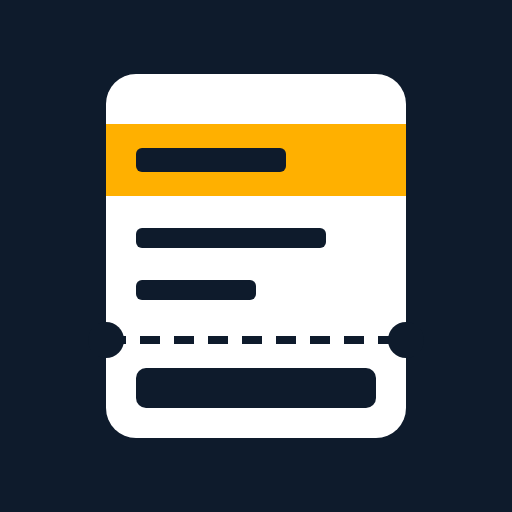
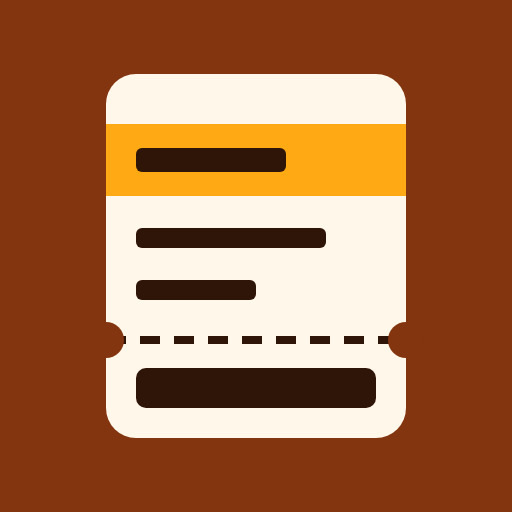
Warm the palette to sienna, cream and umber
Replaces the navy and white with a burnt sienna surround, a cream panel
and dark umber ink, and deepens the amber slightly so the current row
still stands out on cream. Ink no longer doubles as the surround, so the
surround gets its own token, and the install-help and chart SVGs now read
colours from the tokens instead of hardcoded hex values.

Updates the theme colour, the manifest and the app icons, and records the
new palette in DESIGN.md, its sidecar and the surface brief.

diff --git a/src/styles/app.css b/src/styles/app.css
@@ -1,10 +1,11 @@
 :root {
-  --ink: #0e1b2c;
-  --ink-soft: #33445a;
-  --on-ink-soft: #cdd6e2;
-  --paper: #fff;
-  --amber: #ffb000;
-  --panel-tint: #e9edf2;
+  --surround: #833510;
+  --ink: #2e1508;
+  --ink-soft: #5f4332;
+  --on-surround-soft: #f8dfc6;
+  --paper: #fff7ea;
+  --amber: #ffa914;
+  --panel-tint: #f4e4cc;
   --tap: 60px;
   --gutter: 20px;
   --app-width: min(100vw, 520px);
@@ -19,7 +20,7 @@
   line-height: 1.4;
   font-variant-numeric: tabular-nums;
   color: var(--paper);
-  background: var(--ink);
+  background: var(--surround);
   -webkit-text-size-adjust: 100%;
 }
 
@@ -27,7 +28,7 @@
 html, body, #root { min-height: 100%; }
 #root { width: var(--app-width); margin-inline: auto; }
 #root:has(.view) { width: 100%; }
-body { background: var(--ink); overscroll-behavior: none; }
+body { background: var(--surround); overscroll-behavior: none; }
 ::selection { background: var(--amber); color: var(--ink); }
 button { font: inherit; color: inherit; background: none; border: 0; cursor: pointer; touch-action: manipulation; -webkit-tap-highlight-color: transparent; }
 :focus-visible { outline: 4px solid var(--amber); outline-offset: 3px; }
@@ -81,7 +82,7 @@ button.spot:active, button.tile:active { background: var(--ink); }
 .leg-name { font-size: 31px; font-weight: 700; line-height: 1.2; }
 .leg-time { font-size: 23px; }
 .tear { position: relative; flex: none; height: 30px; padding-inline: 24px; background: radial-gradient(circle, var(--ink) 4px, transparent 4.5px) left center / 18px 30px round no-repeat; background-origin: content-box; background-clip: content-box; }
-.tear::before, .tear::after { content: ''; position: absolute; top: calc(50% - 15px); width: 30px; height: 30px; border-radius: 50%; background: var(--ink); }
+.tear::before, .tear::after { content: ''; position: absolute; top: calc(50% - 15px); width: 30px; height: 30px; border-radius: 50%; background: var(--surround); }
 .tear::before { left: -15px; }
 .tear::after { right: -15px; }
 .stub { display: flex; flex-direction: column; gap: 12px; padding: 6px 22px 20px; }
@@ -97,13 +98,13 @@ button.spot:active, button.tile:active { background: var(--ink); }
 .week-row { display: flex; justify-content: space-between; align-items: center; gap: 12px; }
 .week-row .btn-small { flex: none; white-space: nowrap; }
 .week > p { margin-top: 2px; font-size: 21px; line-height: 1.3; }
-.update-screen { font-weight: 500; position: fixed; inset: 0; z-index: 10; left: calc(50% - var(--app-width) / 2); right: auto; width: var(--app-width); background: var(--ink); justify-content: center; overflow-y: auto; }
+.update-screen { font-weight: 500; position: fixed; inset: 0; z-index: 10; left: calc(50% - var(--app-width) / 2); right: auto; width: var(--app-width); background: var(--surround); justify-content: center; overflow-y: auto; }
 
 /* Game screens */
 .game-screen { padding-bottom: calc(var(--safe-bottom) + 12px); }
 .game-bar { display: flex; justify-content: space-between; align-items: center; gap: 12px; min-height: 64px; padding: 0 4px; }
 .game-bar .btn-small { flex: 0 1 auto; max-width: 54%; }
-.game-label { flex: 1 1 auto; min-width: 0; display: flex; flex-direction: column; font-size: 20px; line-height: 1.25; color: var(--on-ink-soft); }
+.game-label { flex: 1 1 auto; min-width: 0; display: flex; flex-direction: column; font-size: 20px; line-height: 1.25; color: var(--on-surround-soft); }
 .game-label b { font-size: 26px; font-weight: 800; line-height: 1.2; color: var(--paper); }
 .game-panel { flex: 1; display: flex; flex-direction: column; margin-top: 12px; }
 .message-screen { flex: 1; display: flex; flex-direction: column; justify-content: space-between; gap: 28px; padding: 26px 22px 22px; }
@@ -158,7 +159,7 @@ button.spot:active, button.tile:active { background: var(--ink); }
 .tile-lit { background: var(--ink); }
 
 /* Leave screen */
-.leave { position: fixed; inset: 0; z-index: 10; left: calc(50% - var(--app-width) / 2); right: auto; width: var(--app-width); background: var(--ink); justify-content: center; overflow-y: auto; }
+.leave { position: fixed; inset: 0; z-index: 10; left: calc(50% - var(--app-width) / 2); right: auto; width: var(--app-width); background: var(--surround); justify-content: center; overflow-y: auto; }
 .leave-panel { display: flex; flex-direction: column; padding: 28px 22px 22px; }
 .leave-actions { margin-top: 30px; }
 
@@ -190,7 +191,7 @@ button.spot:active, button.tile:active { background: var(--ink); }
 .view { max-width: 720px; margin-inline: auto; }
 .view-week { font-size: 23px; line-height: 1.4; }
 .view-week p + p { margin-top: 4px; }
-.view-meta { font-size: 20px; color: var(--on-ink-soft); }
+.view-meta { font-size: 20px; color: var(--on-surround-soft); }
 .view-title { font-size: 30px; font-weight: 800; }
 .view-head { display: flex; flex-wrap: wrap; justify-content: space-between; align-items: baseline; gap: 2px 14px; padding: 0 4px 14px; }
 .view-panel { display: flex; flex-direction: column; gap: 26px; padding: 22px; }
@@ -207,7 +208,7 @@ button.spot:active, button.tile:active { background: var(--ink); }
 .view-notice { padding-top: 18px; border-top: var(--rule); font-size: 21px; line-height: 1.45; }
 .view-message { padding: 26px 22px; font-size: 24px; }
 
-.turn-upright { display: none; position: fixed; inset: 0; z-index: 20; place-items: center; padding: 24px; background: var(--ink); color: var(--paper); font-size: 28px; font-weight: 700; text-align: center; }
+.turn-upright { display: none; position: fixed; inset: 0; z-index: 20; place-items: center; padding: 24px; background: var(--surround); color: var(--paper); font-size: 28px; font-weight: 700; text-align: center; }
 @media (orientation: landscape) and (max-height: 520px) { .turn-upright { display: grid; } }
 
 @media (prefers-reduced-motion: reduce) {

diff --git a/src/screens/PrivateView.tsx b/src/screens/PrivateView.tsx
@@ -50,15 +50,15 @@ function Trend({ points, unit, format }: { points: { date: string; score: number
         }}
         onPointerLeave={() => setActive(null)}
       >
-        <line x1={PAD.left} x2={W - PAD.right} y1={H - PAD.bottom} y2={H - PAD.bottom} stroke="#E9EDF2" strokeWidth="2" />
-        <line x1={PAD.left} x2={W - PAD.right} y1={PAD.top} y2={PAD.top} stroke="#E9EDF2" strokeWidth="2" />
+        <line x1={PAD.left} x2={W - PAD.right} y1={H - PAD.bottom} y2={H - PAD.bottom} stroke="var(--panel-tint)" strokeWidth="2" />
+        <line x1={PAD.left} x2={W - PAD.right} y1={PAD.top} y2={PAD.top} stroke="var(--panel-tint)" strokeWidth="2" />
         <text x={PAD.left - 8} y={PAD.top + 7} textAnchor="end">{Math.round(max)}</text>
         <text x={PAD.left - 8} y={H - PAD.bottom + 7} textAnchor="end">{Math.round(min)}</text>
         <text x={PAD.left} y={H - 8}>{format(points[0].date)}</text>
         {points.length > 1 && <text x={W - PAD.right} y={H - 8} textAnchor="end">{format(points[points.length - 1].date)}</text>}
-        {points.length > 1 && <path d={line} fill="none" stroke="#0E1B2C" strokeWidth="2" strokeLinejoin="round" strokeLinecap="round" />}
-        <line x1={x(shown)} x2={x(shown)} y1={PAD.top} y2={H - PAD.bottom} stroke="#33445A" strokeWidth="1" strokeDasharray="3 4" />
-        <circle cx={x(shown)} cy={y(points[shown].score)} r="6" fill="#0E1B2C" stroke="#FFFFFF" strokeWidth="2" />
+        {points.length > 1 && <path d={line} fill="none" stroke="var(--ink)" strokeWidth="2" strokeLinejoin="round" strokeLinecap="round" />}
+        <line x1={x(shown)} x2={x(shown)} y1={PAD.top} y2={H - PAD.bottom} stroke="var(--ink-soft)" strokeWidth="1" strokeDasharray="3 4" />
+        <circle cx={x(shown)} cy={y(points[shown].score)} r="6" fill="var(--ink)" stroke="var(--paper)" strokeWidth="2" />
       </svg>
     </>
   );

diff --git a/src/screens/InstallHelp.tsx b/src/screens/InstallHelp.tsx
@@ -20,9 +20,9 @@ function AddSymbol() {
 function AppSymbol() {
   return (
     <svg viewBox="0 0 48 48" aria-hidden="true">
-      <rect x="5" y="5" width="38" height="38" rx="9" fill="#0E1B2C" />
-      <rect x="13" y="11" width="22" height="26" rx="3" fill="#fff" />
-      <rect x="13" y="16" width="22" height="6" fill="#FFB000" />
+      <rect x="5" y="5" width="38" height="38" rx="9" fill="var(--surround)" />
+      <rect x="13" y="11" width="22" height="26" rx="3" fill="var(--paper)" />
+      <rect x="13" y="16" width="22" height="6" fill="var(--amber)" />
     </svg>
   );
 }

diff --git a/vite.config.ts b/vite.config.ts
@@ -29,8 +29,8 @@ export default defineConfig({
         orientation: 'portrait',
         start_url: '/',
         scope: '/',
-        theme_color: '#0E1B2C',
-        background_color: '#0E1B2C',
+        theme_color: '#833510',
+        background_color: '#833510',
         icons: [
           { src: 'icon-192.png', sizes: '192x192', type: 'image/png' },
           { src: 'icon-512.png', sizes: '512x512', type: 'image/png' },

diff --git a/index.html b/index.html
@@ -3,7 +3,7 @@
   <head>
     <meta charset="UTF-8" />
     <meta name="viewport" content="width=device-width, initial-scale=1, viewport-fit=cover" />
-    <meta name="theme-color" content="#0E1B2C" />
+    <meta name="theme-color" content="#833510" />
     <meta name="robots" content="noindex" />
     <meta name="mobile-web-app-capable" content="yes" />
     <meta name="apple-mobile-web-app-capable" content="yes" />

diff --git a/DESIGN.md b/DESIGN.md
@@ -2,12 +2,13 @@
 name: Mr. K's Training
 description: A one-person daily brain-game habit, carried on a single ticket that is both home and map.
 colors:
-  amber: "#ffb000"
-  ink: "#0e1b2c"
-  ink-soft: "#33445a"
-  on-ink-soft: "#cdd6e2"
-  paper: "#fff"
-  panel-tint: "#e9edf2"
+  amber: "#ffa914"
+  surround: "#833510"
+  ink: "#2e1508"
+  ink-soft: "#5f4332"
+  on-surround-soft: "#f8dfc6"
+  paper: "#fff7ea"
+  panel-tint: "#f4e4cc"
 typography:
   numeral:
     fontFamily: "Be Vietnam Pro, system-ui, sans-serif"
@@ -184,14 +185,14 @@ components:
 
 **Creative North Star: "The Day's Pass"**
 
-One white ticket on a dark navy surround is the whole world. The pass is both home and map: she leaves it to play a game and returns to the same ticket with the next row lit. Everything else, from a game to a settings page to a warning, is the same white panel on the same navy, so nothing feels like going somewhere new.
+One cream ticket on a burnt sienna surround is the whole world. The pass is both home and map: she leaves it to play a game and returns to the same ticket with the next row lit. Everything else, from a game to a settings page to a warning, is the same cream panel on the same sienna, so nothing feels like going somewhere new.
 
 The system borrows the structure of a boarding pass and a departure board: numbered rows, heavy dividing rules, tabular numerals, a perforated tear line with punched notches. It borrows no flight imagery or vocabulary. Density is deliberately low and the type is very large, because the only player needs larger text, has less steady hands and can't be expected to know app conventions. Hierarchy comes from size, weight and one lit row, never from decoration.
 
 German and Vietnamese copy is an unreviewed draft. No wording is recorded here as a standard, and layouts must hold up when strings change length.
 
 **Key Characteristics:**
-- One white panel on a navy surround, on every screen.
+- One cream panel on a sienna surround, on every screen.
 - One amber row that says where she is today.
 - Very large type, with 20 px as the floor.
 - Controls that are unmistakably shapes, with generous targets and a visible press.
@@ -199,24 +200,25 @@ German and Vietnamese copy is an unreviewed draft. No wording is recorded here a
 
 ## Colors
 
-A near-monochrome pairing of navy and white, with one saturated amber that carries position.
+A warm family of one hue: burnt sienna around cream paper, dark umber ink, and one saturated amber that carries position.
 
 ### Primary
-- **Departure Amber** (#ffb000): The band behind the current row on the pass and the arrow in the go button. It also marks text selection, and focus rings on the navy surround. The app icon and the install-help illustration show the same band because they are pictures of the pass. Ink reads on it at 9.46:1.
+- **Departure Amber** (#ffa914): The band behind the current row on the pass and the arrow in the go button. It also marks text selection, and focus rings on the surround (4.41:1). The app icon and the install-help illustration show the same band because they are pictures of the pass. Ink reads on it at 8.91:1. It sits a little deeper than a pure amber so the band stands out from cream as strongly as it would from white.
 
 ### Neutral
-- **Night Ink** (#0e1b2c): The surround, all text on white, rules, filled buttons, selected options, lit tiles and game shapes. Used on white it reaches 17.33:1.
-- **Slate Ink** (#33445a): Quiet notes on white and the disabled button label (9.93:1 on white).
-- **Pale Slate** (#cdd6e2): Secondary text on the navy surround only (11.81:1 on ink).
-- **Ticket White** (#fff): The panel, button labels on ink, and all primary text on the surround.
-- **Tint** (#e9edf2): Resting fill of location spots, disabled button fill, and the light table rules on fact lists. At 1.18:1 against white it never carries meaning alone.
+- **Burnt Sienna** (#833510): The surround on every screen, the notches punched into the ticket, and the browser and manifest theme colour. Cream text reads on it at 7.96:1. It's held to the brown-orange side of red, so a whole screen of it never reads as an alarm.
+- **Umber Ink** (#2e1508): All text on the panel, rules, filled buttons, selected options, lit tiles and game shapes. On cream it reaches 16.09:1. It is not the surround: an ink control on sienna has only 2.02:1 at its edge, so ink-filled controls stay inside the panel.
+- **Walnut** (#5f4332): Quiet notes on cream and the disabled button label (8.45:1 on cream, 7.20:1 on Tint).
+- **Pale Apricot** (#f8dfc6): Secondary text on the surround only (6.59:1 on sienna).
+- **Ticket Cream** (#fff7ea): The panel, button labels on ink, and all primary text on the surround.
+- **Tint** (#f4e4cc): Resting fill of location spots, disabled button fill, and the light table rules on fact lists. At 1.17:1 against cream it never carries meaning alone.
 
 ### Named Rules
 **The One Lit Row Rule.** Amber as a state means "you are here" and appears on one row of the pass. The go-button arrow is its only companion. Selected options, correct answers, lit tiles, game feedback and charts never use it.
 
-**The No Amber On White Rule.** Amber never colours text, icons or rings directly on white (1.83:1). That is why focus rings switch to ink inside a panel.
+**The No Amber On Cream Rule.** Amber never colours text, icons or rings directly on cream (1.81:1). That is why focus rings switch to ink inside a panel.
 
-**The No Red Rule.** The system has no red and no alarm colour. A wrong answer is an ink cross, and nothing on her screens signals failure with colour.
+**The No Red Rule.** The system has no red and no alarm colour, and the warm palette stays brown-orange rather than drifting towards it. A wrong answer is an ink cross, and nothing on her screens signals failure with colour.
 
 ## Typography
 
@@ -245,7 +247,7 @@ A near-monochrome pairing of navy and white, with one saturated amber that carri
 
 ## Layout
 
-The app is a single column of `min(100vw, 520px)`, centred on the navy surround, with a 20px gutter and safe-area insets added to the top and bottom. On desktop it stays that column rather than reflowing. The private view is the one exception, widening to 720px because it is read by her child in an ordinary browser. Landscape on a short screen (height up to 520px) is replaced by a full-screen request to turn the phone upright.
+The app is a single column of `min(100vw, 520px)`, centred on the sienna surround, with a 20px gutter and safe-area insets added to the top and bottom. On desktop it stays that column rather than reflowing. The private view is the one exception, widening to 720px because it is read by her child in an ordinary browser. Landscape on a short screen (height up to 520px) is replaced by a full-screen request to turn the phone upright.
 
 Each screen has a bar of at least 64px on the surround (title on the left, one small button on the right) and a panel below. On the pass and in games the panel grows to fill the remaining height (`100svh`), so the primary action stays within thumb reach at the bottom. Messages and dialogs centre their panel vertically instead.
 
@@ -255,7 +257,7 @@ Spacing is roomy and slightly irregular by role: 22px panel inset, 18px around g
 
 ## Elevation & Depth
 
-The system is flat. There are no cast shadows, blurs or translucent layers: depth is the white panel against the navy, and rules divide everything inside it. The only `box-shadow` values are inset rings drawn during a press.
+The system is flat. There are no cast shadows, blurs or translucent layers: depth is the cream panel against the sienna, and rules divide everything inside it. The only `box-shadow` values are inset rings drawn during a press.
 
 **The Punched Not Lifted Rule.** The ticket is paper lying flat. Its one dimensional detail is the pair of notches cut from its edges, which are simply the surround showing through.
 
@@ -269,37 +271,37 @@ Controls are plain, tactile and literal: a filled or outlined shape that looks p
 
 ### Buttons
 - **Shape:** Gently rounded (14px), full width except the small button, 76px minimum height.
-- **Primary:** Ink fill with white text, for the one obvious next action.
+- **Primary:** Ink fill with cream text, for the one obvious next action.
 - **Secondary:** 3px ink outline with ink text, for the equally clear alternative or way back.
 - **Large:** Primary at 104px and 32px type, used when a dialog has a safe main choice.
 - **Tap:** Primary at 150px and 40px type, the single answer button in the tap game.
-- **Small:** 3px white outline with white text on the surround, 60px minimum, used only in the top bars. It may pair an icon with its word.
-- **Press:** Primary inverts to white with ink text and a 4px inset ink ring. Secondary, options and choices fill ink with white text. Small buttons are the exception today: they only gain a 3px inset ring, which is a known gap and not a pattern.
+- **Small:** 3px cream outline with cream text on the surround, 60px minimum, used only in the top bars. It may pair an icon with its word.
+- **Press:** Primary inverts to cream with ink text and a 4px inset ink ring. Secondary, options and choices fill ink with cream text. Small buttons are the exception today: they only gain a 3px inset ring, which is a known gap and not a pattern.
 - **Focus:** 4px ring at 3px offset, amber on the surround and ink inside a panel.
-- **Disabled:** Tint fill with Slate Ink text.
+- **Disabled:** Tint fill with Walnut text.
 
 ### Options
 - **Style:** Outlined 76px rows or a three-column segment, in 26px bold.
-- **State:** Selected fills ink with white text. Language rows add a check icon. A press inverts either state.
+- **State:** Selected fills ink with cream text. Language rows add a check icon. A press inverts either state.
 
 ### Inputs
-- **Style:** White fill, 3px ink outline, 14px radius, 76px minimum, 24px bold, with a 22px bold label above.
+- **Style:** Cream fill, 3px ink outline, 14px radius, 76px minimum, 24px bold, with a 22px bold label above.
 - **Focus:** The ink ring used throughout panels.
 
 ### Cards / Containers
-The panel is the only container: white, 20px radius, no border or shadow, clipping its contents. Nothing nests a panel inside a panel.
+The panel is the only container: cream, 20px radius, no border or shadow, clipping its contents. Nothing nests a panel inside a panel.
 
 ### The Pass (signature)
 A head row (title and date), then numbered rows divided by 3px ink rules, then the tear line and a stub holding one action. A finished row swaps its number for a check icon. Ink text stays on the row in every state, so only the band behind it changes. When she finishes a game the band slides once from the finished row to the next (1000ms after a 450ms delay, `cubic-bezier(0.45, 0, 0.25, 1)`), and with reduced motion it simply appears. This is the only animated transition in the system. When every row is done the band disappears and the stub reports it in words.
 
 ### Go Button
-A primary button 124px tall with the word on the left at display size, the time beneath it at 22px, and a 56px solid amber arrow on the right. The arrow currently stays amber when a press turns the button white (1.83:1), which is a known gap and not a pattern.
+A primary button 124px tall with the word on the left at display size, the time beneath it at 22px, and a 56px solid amber arrow on the right. The arrow currently stays amber when a press turns the button cream (1.81:1), which is a known gap and not a pattern.
 
 ### Answer Choices
 Two equal outlined cells side by side, each a picture above its word, at least 168px tall in play. In the speed game they stretch to fill the free height.
 
 ### Playing Pieces
-Location spots are tinted circles with a 4px ink outline, at least 64px. Memory tiles are white squares with a 3px ink outline that fill ink when lit. These are the game board, so they carry no labels; the prompt sentence above them says what to do. Two known gaps: a lit tile shows no change when pressed, and tiles in the 5 by 5 grid fall below 60px on screens narrower than about 408px (66px on her phone).
+Location spots are tinted circles with a 4px ink outline, at least 64px. Memory tiles are cream squares with a 3px ink outline that fill ink when lit. These are the game board, so they carry no labels; the prompt sentence above them says what to do. Two known gaps: a lit tile shows no change when pressed, and tiles in the 5 by 5 grid fall below 60px on screens narrower than about 408px (66px on her phone).
 
 ### Demo Target
 A 6px ink ring at 5px offset around the element she should tap, leaving its fill unchanged, on spots, choices and buttons alike. The doubled line reads as "this one" without implying it was already pressed. Demo targets are not live controls.
@@ -310,7 +312,7 @@ Ink line charts on two tint rules, with a readout above and a table behind a wor
 ## Do's and Don'ts
 
 ### Do:
-- **Do** put every screen on the navy surround in one white panel, with one obvious next action.
+- **Do** put every screen on the sienna surround in one cream panel, with one obvious next action.
 - **Do** give every button a word. The exceptions are the game's own pieces (location spots, memory tiles), whose instruction is the prompt sentence, and numeral options, whose heading names them.
 - **Do** make every new press state an inversion of the control, visible without fine eyesight.
 - **Do** keep text at 20 px or larger and targets at 60 px or larger.
@@ -319,7 +321,7 @@ Ink line charts on two tint rules, with a readout above and a table behind a wor
 - **Do** let strings change: German and Vietnamese copy is an unreviewed draft, so test layout rather than fixing wording.
 
 ### Don't:
-- **Don't** use amber for selection, success, games, charts or emphasis, or directly on white.
+- **Don't** use amber for selection, success, games, charts or emphasis, or directly on cream.
 - **Don't** use an icon alone as a navigation, confirm or settings control.
 - **Don't** fill a demo target to highlight it. Fill means lit or selected.
 - **Don't** add red, cast shadows, a fourth font weight or a second typeface.

diff --git a/.impeccable/surfaces/src-screens-home-tsx.md b/.impeccable/surfaces/src-screens-home-tsx.md
@@ -13,11 +13,11 @@ Mode: Operate. Scope: the pass in all its states, game introductions, the speed 
 
 THESIS: The pass is both home and map. She leaves one ticket to play a game and always returns to the same ticket, with the next row lit. It refuses the category's dashboard of tiles, streaks and scores.
 
-OWN-WORLD: Dark navy #0E1B2C surround, one white panel, amber #FFB000 held on the current row and nowhere else as a state, navy text on both. Be Vietnam Pro, tabular numerals, heavy dividing rules, a perforated tear line with punched notches. Every button is a filled or outlined shape with words. No red, no planes, no barcodes, no flight wording.
+OWN-WORLD: Burnt sienna #833510 surround, one cream #FFF7EA panel, amber #FFA914 held on the current row and nowhere else as a state, umber #2E1508 text on panel and band. Warmed from the original navy and white on 2026-11-03 at the user's request. Be Vietnam Pro, tabular numerals, heavy dividing rules, a perforated tear line with punched notches. Every button is a filled or outlined shape with words. No red, no planes, no barcodes, no flight wording.
 
 STORY: She understands what today holds, sees where she is, and presses the one obvious button. After each game she sees her row checked and the amber band move down. When all rows are checked the stub says done for today.
 
-FIRST VIEWPORT: Greeting top left and a worded Settings button top right. Below, the white pass fills the screen: head row with today's set and date, then numbered rows (number, game name, minutes), the current row in amber. A perforated tear line, then a stub holding one full-width navy button with its word and arrow, within thumb reach. Under the pass, the week in words. Signature interaction: the amber band moves slowly from the finished row to the next one, once, with reduced-motion handled by an instant change.
+FIRST VIEWPORT: Greeting top left and a worded Settings button top right. Below, the cream pass fills the screen: head row with today's set and date, then numbered rows (number, game name, minutes), the current row in amber. A perforated tear line, then a stub holding one full-width umber button with its word and arrow, within thumb reach. Under the pass, the week in words. Signature interaction: the amber band moves slowly from the finished row to the next one, once, with reduced-motion handled by an instant change.
 
 FORM: Boarding pass and departure board, a dealt challenger chosen by the user over the ordered list (Road Sign assigned, Tear-off Calendar pick). seed:c94a321d516bad58. The composition to match is .impeccable/mocks/decision/challenger-pass.html.
 
